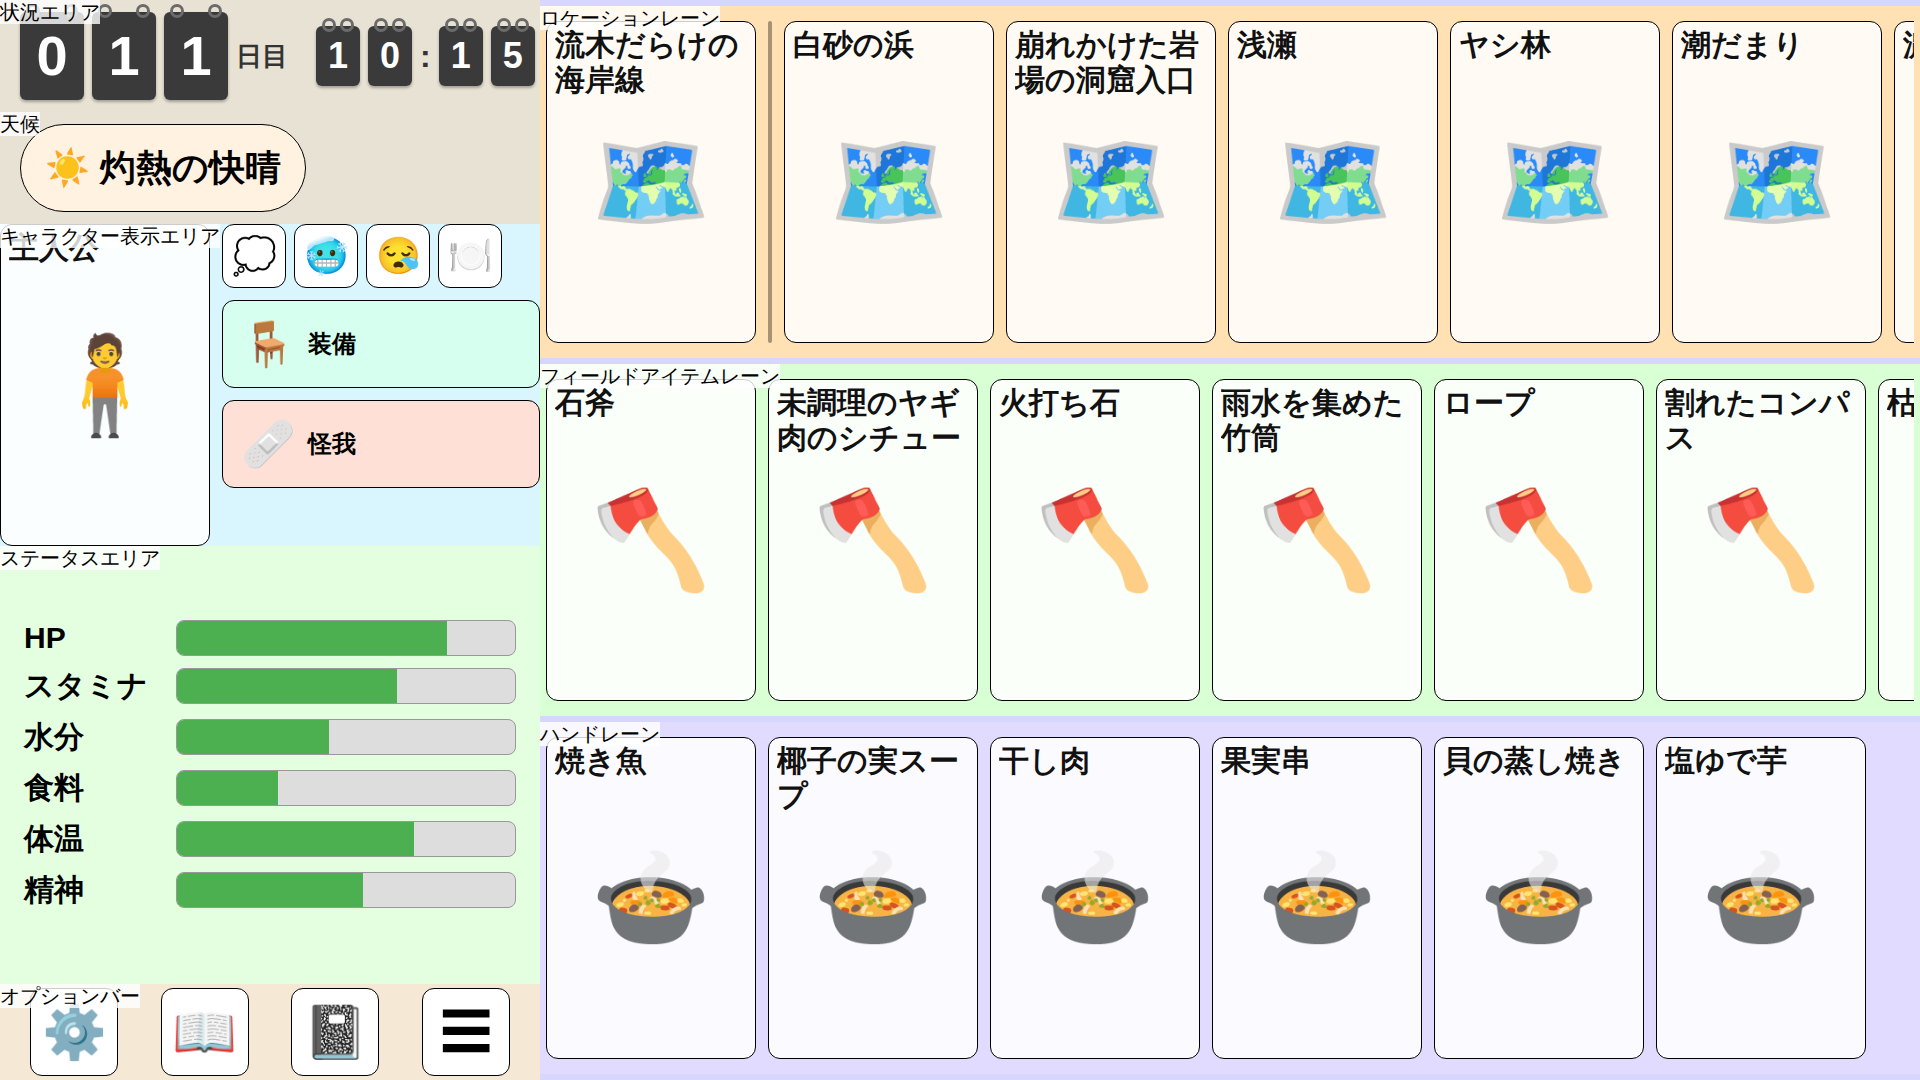
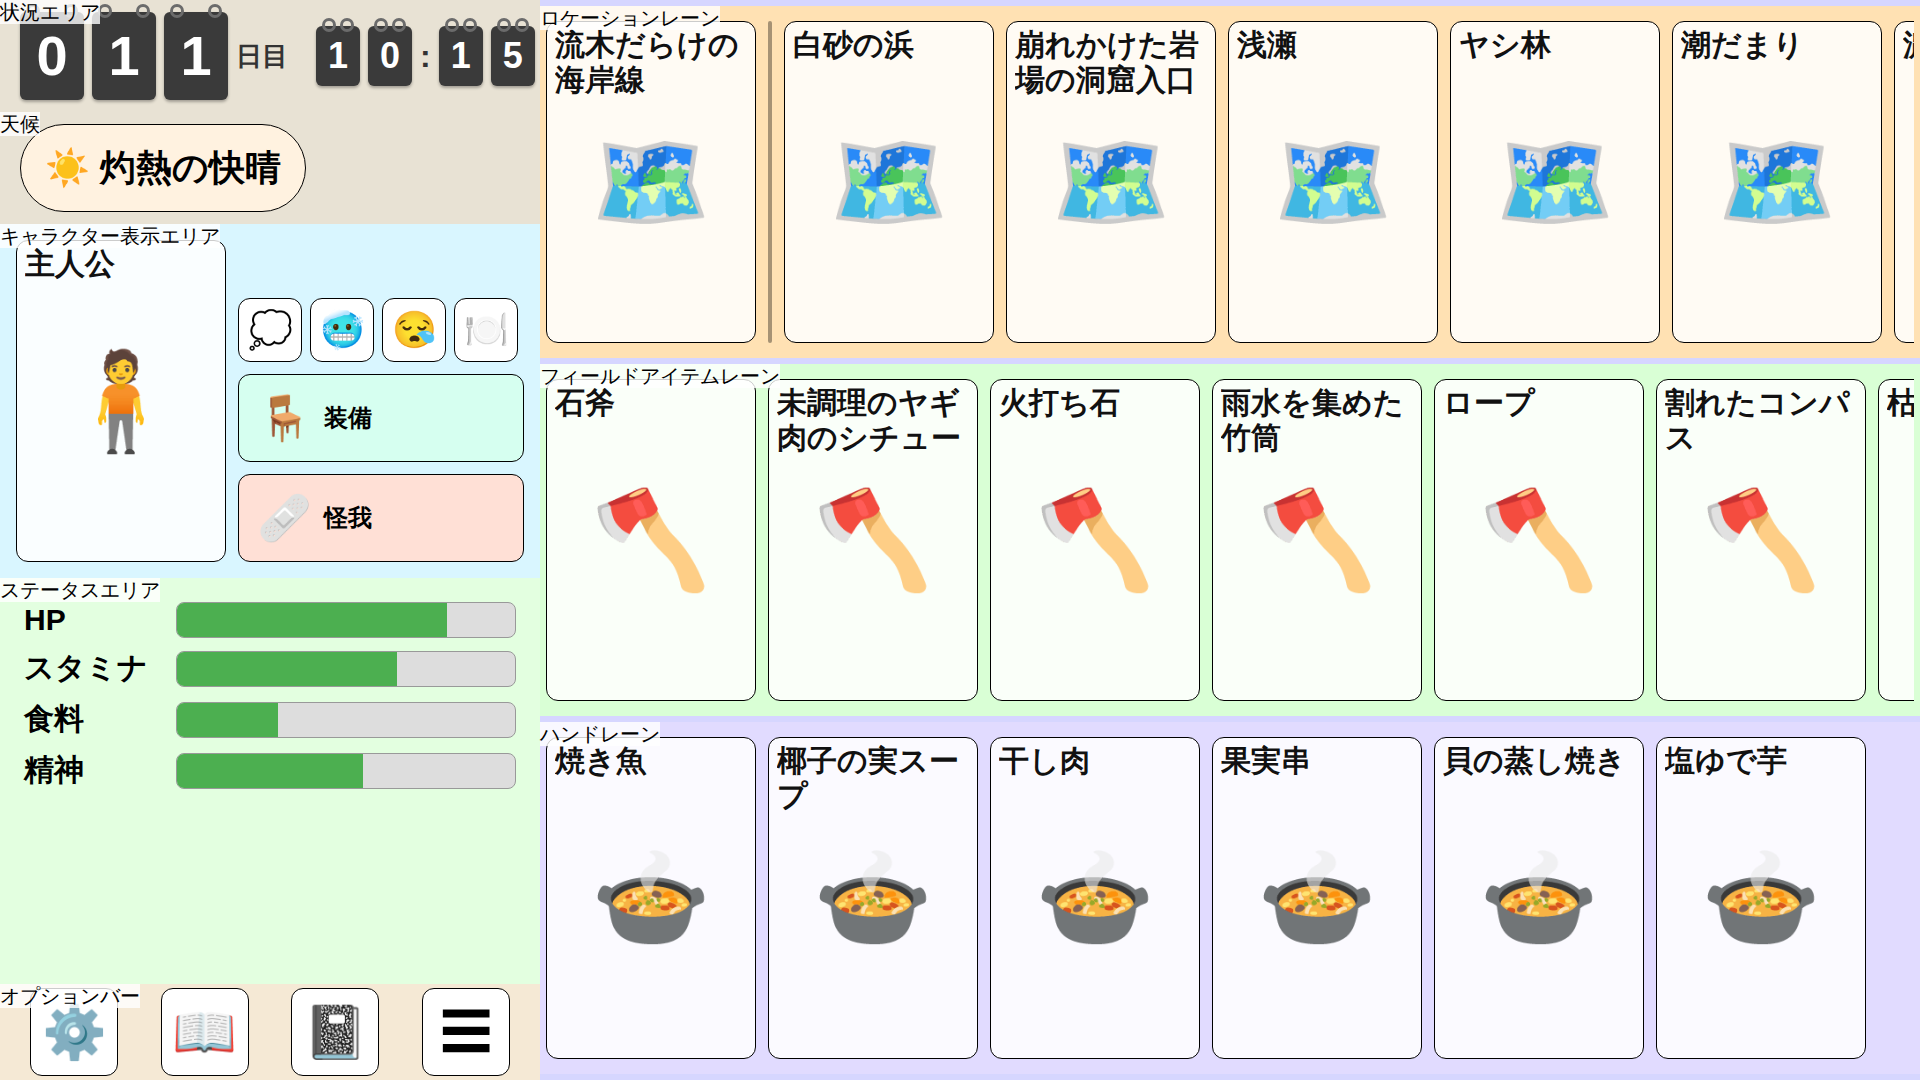
docs: ステータスエリアを上寄せにし、キャラクターエリアの余白を整理
- ステータスエリアのバーを中央寄せから上寄せへ変更。表示ステータスは
  変化があった/要注意/ユーザー固定のもののみを表示する可変長リストの
  想定のため、件数が変わってもバー群の位置が動かないようにした
  (モックでは6種類中4種類のみ表示する例を追加)
- キャラクター表示エリアに内側余白(16u)を追加し、ポートレイトカードが
  エリアの端に張り付かないようにした
- ポートレイトカード(322u高)は条件/装備/怪我のボタン群より背が高く
  必ず余白が生まれるため、その余白をボタン群の間に分散させず
  ポートレイト上部(頭部側)へ集約するよう変更。縦型は条件セルを
  align-content:end、横型はcharacter-displayをalign-items:flex-end
  にして、ボタン群をポートレイトの下端に揃えた

Claude-Session: https://claude.ai/code/session_017mz69xFpjWLJMvgraCLnuJ

Changed region(s): [[0.0, 0.1833, 0.2812, 0.8556]]

diff --git a/Documents/UI/ScreenLayout_Mock.html b/Documents/UI/ScreenLayout_Mock.html
@@ -144,6 +144,7 @@
       grid-template-columns: var(--portrait-w) 1fr;
       grid-auto-rows: auto;
       gap: var(--gap);
+      padding: calc(16 * var(--u));
       background: #d9f6ff;
     }
 
@@ -160,12 +161,15 @@
     }
 
     /* 条件は複数同時に付き得るため、アイコンボタンを2列のグリッドで並べる。
-       個数が変わっても自動的に折り返される（横型は1行に並べる。横型メディアクエリ参照） */
+       個数が変わっても自動的に折り返される（横型は1行に並べる。横型メディアクエリ参照）。
+       行の下端に揃え、装備・怪我のボタン列と隣接させる。余白はポートレイト上部側に集約し、
+       ボタン群が離れて浮いて見えないようにする */
     .condition-cell {
       display: grid;
       grid-template-columns: repeat(2, auto);
       gap: calc(8 * var(--u));
-      place-content: center;
+      align-content: end;
+      justify-content: center;
     }
 
     /* 装備・怪我の行。縦型ではグリッドの両列にまたがる独立の行にし、
@@ -224,13 +228,16 @@
     .icon-button--equipment { background: #d6fff0; }
     .icon-button--injury { background: #ffe0d6; }
 
+    /* 表示するステータスの数は可変（変化があったもの・要注意なもの・ユーザーが固定した
+       ものだけを表示する想定）なので、中央寄せにはせず上端に揃える。
+       件数が変わってもレイアウトが飛ばないようにするため */
     .status-area {
       position: relative;
       flex: 1;
       min-width: 0;
       display: flex;
       flex-direction: column;
-      justify-content: center;
+      justify-content: flex-start;
       gap: calc(16 * var(--u));
       padding: calc(24 * var(--u));
       background: #e3ffe0;
@@ -475,11 +482,14 @@
         min-height: 0;
       }
 
+      /* 右列（条件・装備・怪我）をポートレイトの下端に揃える。右列の内容量は
+         ポートレイトの高さより短いため、余白はポートレイト上部側（頭部側）に集約され、
+         ボタン群同士が離れて浮いて見えることを防ぐ */
       .character-display {
         width: 100%;
         display: flex;
         flex-direction: row;
-        align-items: flex-start;
+        align-items: flex-end;
       }
 
       .info-column {
@@ -505,7 +515,7 @@
       .status-area {
         flex: 1;
         min-height: 0;
-        justify-content: center;
+        justify-content: flex-start;
         gap: calc(10 * var(--u));
         padding: calc(24 * var(--u));
       }
@@ -550,6 +560,8 @@
             </div>
           </div>
         </div>
+        <!-- 表示するステータスの数は可変（変化があった／要注意／ユーザー固定のみ表示）想定。
+             ここでは6項目中4項目だけが該当し表示されている状態を例示する -->
         <div class="status-area">
           <div class="label">ステータスエリア</div>
           <div class="status-item">
@@ -561,16 +573,8 @@
             <div class="status-bar-container"><div class="status-bar" style="width:65%"></div></div>
           </div>
           <div class="status-item">
-            <div class="status-name">水分</div>
-            <div class="status-bar-container"><div class="status-bar" style="width:45%"></div></div>
-          </div>
-          <div class="status-item">
             <div class="status-name">食料</div>
             <div class="status-bar-container"><div class="status-bar" style="width:30%"></div></div>
-          </div>
-          <div class="status-item">
-            <div class="status-name">体温</div>
-            <div class="status-bar-container"><div class="status-bar" style="width:70%"></div></div>
           </div>
           <div class="status-item">
             <div class="status-name">精神</div>
